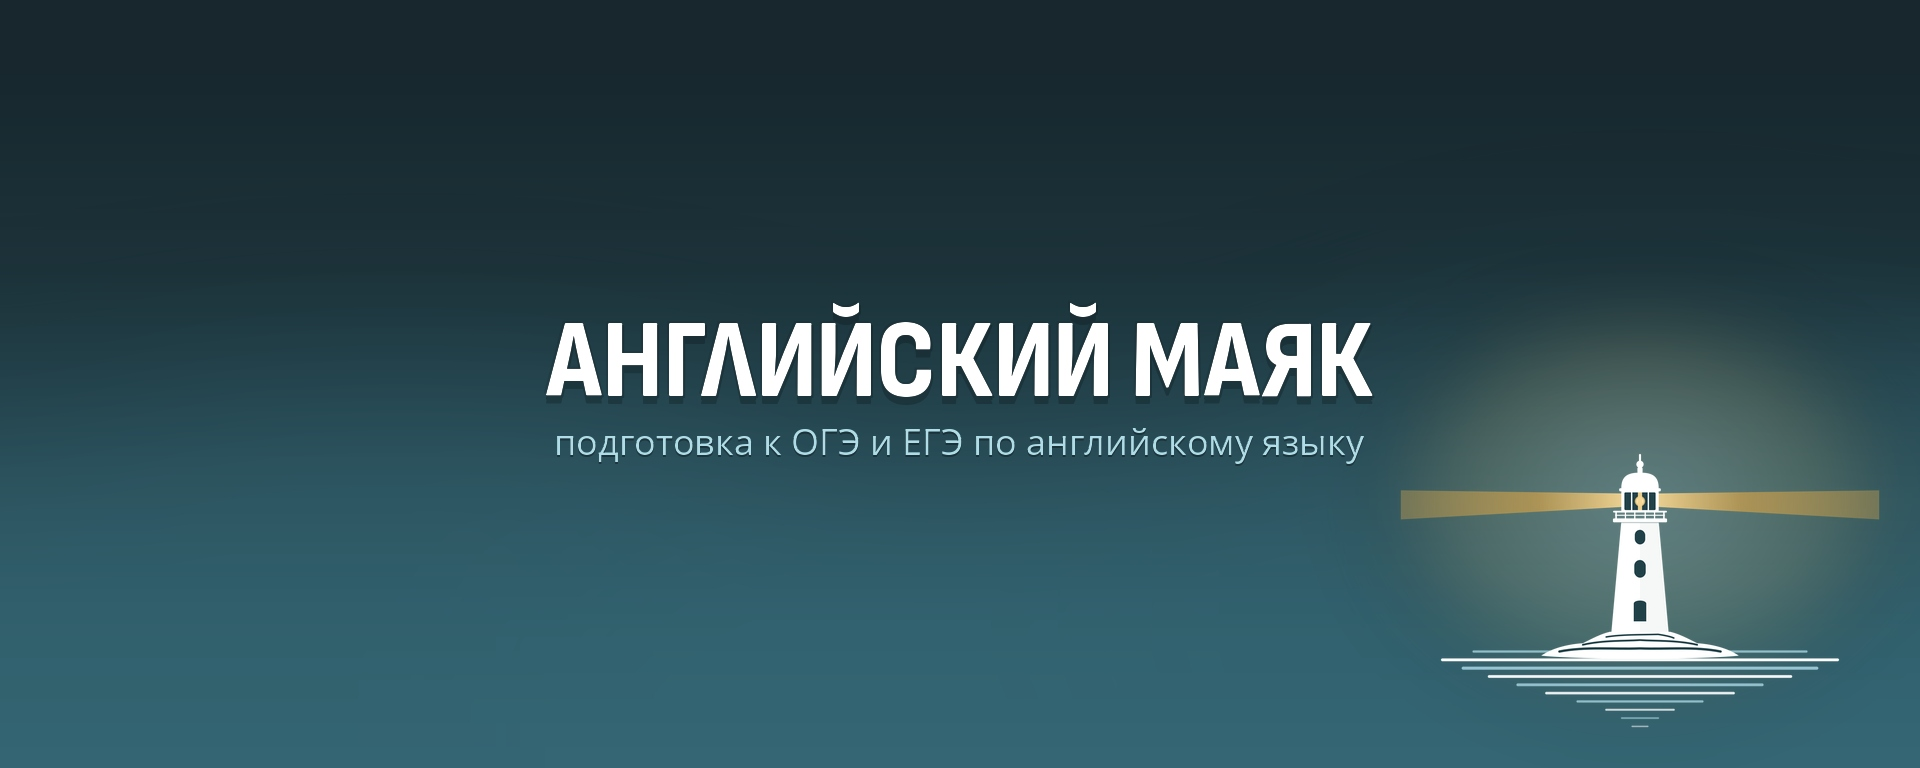
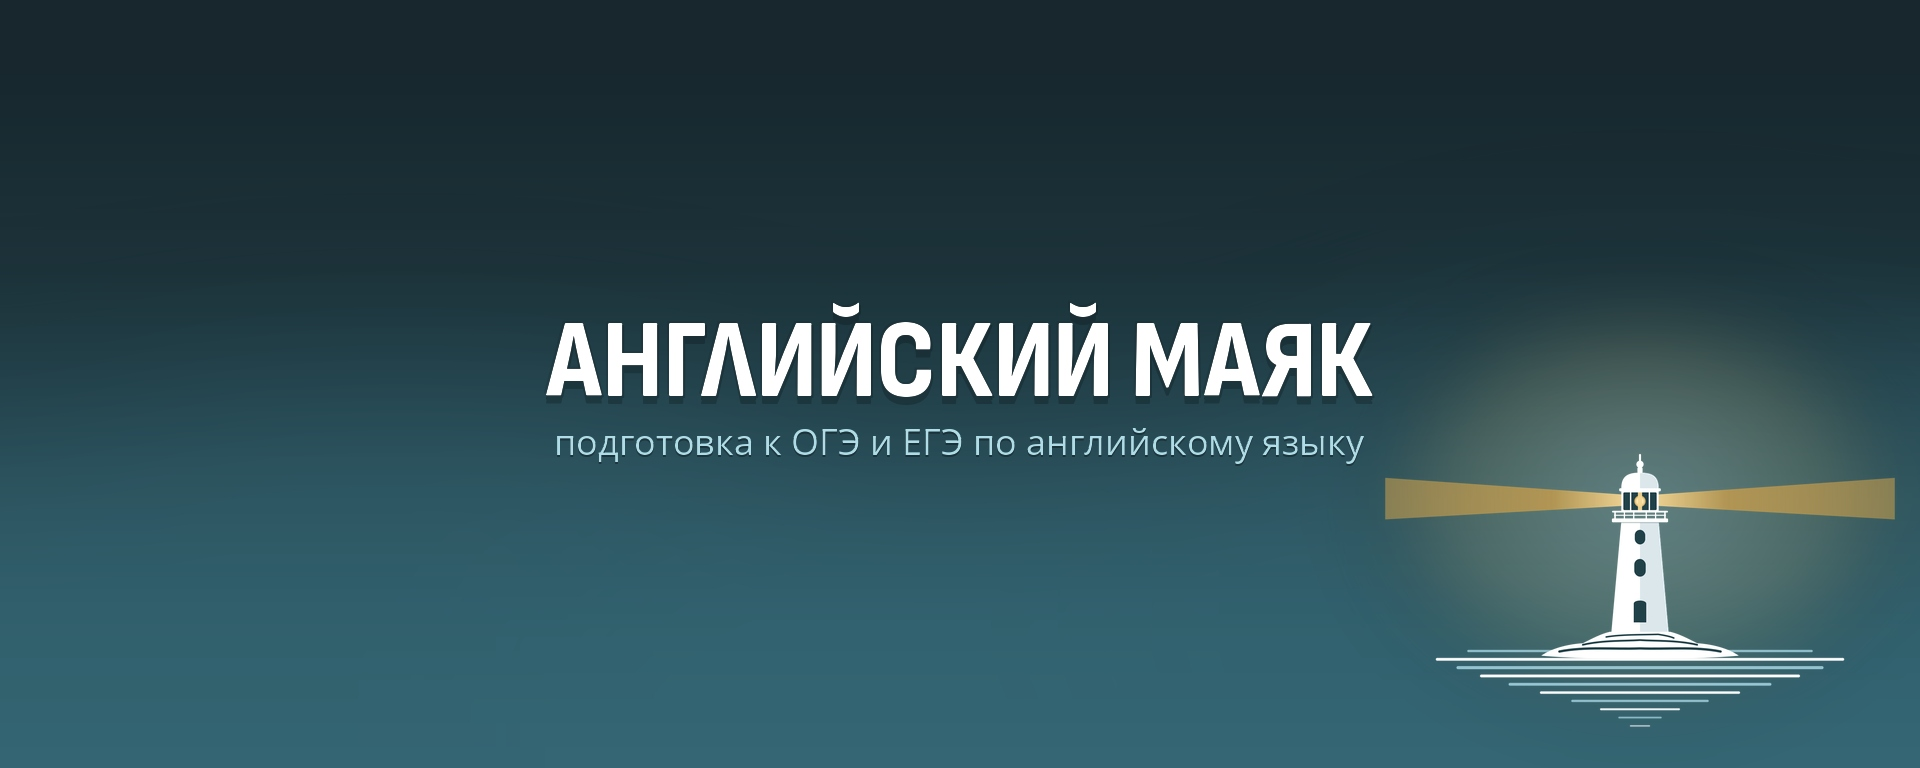
Уточнение слоев и светотени маяка в соответствии с оригинальным SVG логотипом

Changed region(s): [[0.75, 0.625, 1.0, 0.9375], [0.7188, 0.625, 0.8125, 0.6875]]

diff --git a/generate_final_cover.py b/generate_final_cover.py
@@ -11,13 +11,8 @@ def create_perfect_vk_cover(
     W, H = 1920, 768
     
     # 1. Background Sea Gradient:
-    # Top: Dark navy/teal (#17272D)
-    # Bottom: Rich sea teal with soft lighting (#386E7C)
+    # Deep sea navy/teal at the top, soft rich sea teal with gentle lighting towards bottom
     y_coords, x_coords = np.mgrid[0:H, 0:W]
-    
-    # Top color: (23, 39, 45) -> #17272D
-    # Mid color: (38, 72, 82) -> #264852
-    # Bottom color: (56, 110, 124) -> #386E7C
     
     c_top = np.array([23, 39, 45], dtype=np.float32)
     c_mid = np.array([38, 72, 82], dtype=np.float32)
@@ -26,7 +21,6 @@ def create_perfect_vk_cover(
     norm_y = y_coords / H
     norm_x = x_coords / W
     
-    # Smooth progression from top to bottom
     t1 = np.clip(norm_y * 1.35 - 0.1, 0.0, 1.0)
     rgb_base = (1.0 - t1[:, :, np.newaxis]) * c_top + t1[:, :, np.newaxis] * c_mid
     
@@ -40,24 +34,17 @@ def create_perfect_vk_cover(
     mist_layer = Image.new("RGBA", (W, H), (0, 0, 0, 0))
     mist_draw = ImageDraw.Draw(mist_layer)
     
-    # Soft wide clouds/ellipses for depth
     mist_draw.ellipse((-300, 320, 1100, 950), fill=(72, 141, 160, 45))
     mist_draw.ellipse((500, 380, 1900, 1050), fill=(70, 138, 157, 55))
     mist_draw.ellipse((1100, 260, 2200, 950), fill=(72, 141, 160, 50))
     mist_layer = mist_layer.filter(ImageFilter.GaussianBlur(90))
     
     # 3. Lighthouse Position & Sizing
-    # In screenshot:
-    # Center X: 1640
-    # Water base bottom line is right near y=700.
-    # Spire top is near y=450.
-    # Total height of artwork is ~520px, width ~520px.
-    # Center Y of the bounding box = 560
+    # Matches the VK Editor crop layout perfectly
     lh_cx = 1640
     lh_cy = 560
     lh_size = 520
     
-    # Lantern is located around (lh_cx, lh_cy - 0.12 * lh_size) -> ~y=498
     lantern_x = lh_cx
     lantern_y = lh_cy - int(lh_size * 0.12)
     
@@ -73,9 +60,9 @@ def create_perfect_vk_cover(
     canvas = Image.alpha_composite(bg_img, mist_layer)
     canvas = Image.alpha_composite(canvas, halo_layer)
     
-    # 4. Render Transparent Lighthouse Artwork from SVG
-    from generate_transparent_lh import generate_transparent_lighthouse_svg
-    svg_str = generate_transparent_lighthouse_svg(1500)
+    # 4. Render Updated Vector Lighthouse Artwork from SVG
+    from generate_accurate_lh import generate_perfect_logo_lighthouse_svg
+    svg_str = generate_perfect_logo_lighthouse_svg(1500)
     tmp_lh_png = "/tmp/lh_transparent_rendered.png"
     cairosvg.svg2png(bytestring=svg_str.encode('utf-8'), write_to=tmp_lh_png, output_width=1500, output_height=1500)
     lh_img = Image.open(tmp_lh_png).convert("RGBA")
@@ -83,7 +70,7 @@ def create_perfect_vk_cover(
     lh_resized = lh_img.resize((lh_size, lh_size), Image.Resampling.LANCZOS)
     canvas.paste(lh_resized, (lh_cx - lh_size // 2, lh_cy - lh_size // 2), lh_resized)
     
-    # 5. Centered Typography
+    # 5. Centered Typography (Unchanged)
     # Title: «АНГЛИЙСКИЙ МАЯК» — Sofia Sans Condensed ExtraBold (800)
     # Subtitle: «подготовка к ОГЭ и ЕГЭ по английскому языку» — Open Sans Regular (400)
     text_layer = Image.new("RGBA", (W, H), (0, 0, 0, 0))
@@ -104,7 +91,6 @@ def create_perfect_vk_cover(
     gap = 26
     tot_h = th + gap + sh
     
-    # Vertically centered in the visible cover area
     top_y = (H - tot_h) // 2 - 10
     
     tx = (W - tw) // 2
@@ -113,14 +99,14 @@ def create_perfect_vk_cover(
     sx = (W - sw) // 2
     sy = ty + th + gap
     
-    # Shadow for title
+    # Text shadow for title
     for dx, dy, a in [(-2, -2, 40), (2, 2, 80), (0, 4, 110), (0, 8, 80)]:
         draw.text((tx + dx, ty + dy), title_text, font=font_title, fill=(12, 22, 26, a))
         
-    # Title in pure #FFFFFF
+    # Title text (#FFFFFF)
     draw.text((tx, ty), title_text, font=font_title, fill=(255, 255, 255, 255))
     
-    # Subtitle shadow & text in light sea aqua (#A5D2DF)
+    # Subtitle shadow & text (#A5D2DF)
     draw.text((sx, sy + 2), sub_text, font=font_sub, fill=(12, 22, 26, 120))
     draw.text((sx, sy), sub_text, font=font_sub, fill=(175, 220, 230, 255))
     

diff --git a/generate_accurate_lh.py b/generate_accurate_lh.py
@@ -1,4 +1,43 @@
-<svg xmlns="http://www.w3.org/2000/svg" viewBox="0 0 1000 1000" width="1500" height="1500">
+import os
+import cairosvg
+
+def generate_perfect_logo_lighthouse_svg(size=1200):
+    """
+    Exact visual replica of the logo SVG:
+    
+    1. Gold Light Beams:
+       - The beams are wide trapezoids expanding from the lantern room.
+       - In the emblem, the beam edges go:
+         Left: from (465, 375) to (10, 345) on top, and (465, 395) to (10, 420) on bottom.
+         Right: from (535, 375) to (990, 345) on top, and (535, 395) to (990, 420) on bottom.
+       - Color: #F3D593 -> #C19B4F.
+       
+    2. Lantern Room & Lamp:
+       - Top platform cornice (white)
+       - 3 glass panels (dark teal #214149) separated by vertical white mullions
+       - Glowing golden lantern bulb in the center panel (#F3D593 with halo)
+       - Lower gallery platform and railing with 5 vertical balusters
+       
+    3. Tower:
+       - Tapered white masonry tower
+       - Two-tone 3D shading:
+         Left half is clean bright white (#FFFFFF)
+         Right half is soft light-blue shadow (#E2EDF2)
+       - 3 dark teal openings aligned vertically:
+         - Top round window (arched)
+         - Middle round window (arched)
+         - Bottom entryway door (arched top)
+         
+    4. Rocky Island Base:
+       - Pure white stylized rock island
+       - Multiple dark teal (#214149) crevice contour lines following the natural form
+       
+    5. Water Reflections:
+       - Inverted triangular stack of horizontal ripple lines below the island
+       - Alternating crisp white (#FFFFFF) and aqua blue (#A5D2DF)
+       - Lines progressively decrease in length downwards to create reflection perspective
+    """
+    svg = f'''<svg xmlns="http://www.w3.org/2000/svg" viewBox="0 0 1000 1000" width="{size}" height="{size}">
   <defs>
     <!-- Gold Beam Gradients -->
     <linearGradient id="beamLeftGrad" x1="470" y1="385" x2="10" y2="385" gradientUnits="userSpaceOnUse">
@@ -118,4 +157,12 @@
     <circle cx="500" cy="316" r="7" fill="#FFFFFF" />
     <line x1="500" y1="298" x2="500" y2="312" stroke="#FFFFFF" stroke-width="4" stroke-linecap="round"/>
   </g>
-</svg>
+</svg>'''
+    return svg
+
+if __name__ == '__main__':
+    svg_data = generate_perfect_logo_lighthouse_svg(1500)
+    with open('/workspace/lighthouse_transparent.svg', 'w', encoding='utf-8') as f:
+        f.write(svg_data)
+    cairosvg.svg2png(url='/workspace/lighthouse_transparent.svg', write_to='/workspace/lighthouse_transparent.png', output_width=1500, output_height=1500)
+    print("Exported updated lighthouse_transparent.svg & .png")
